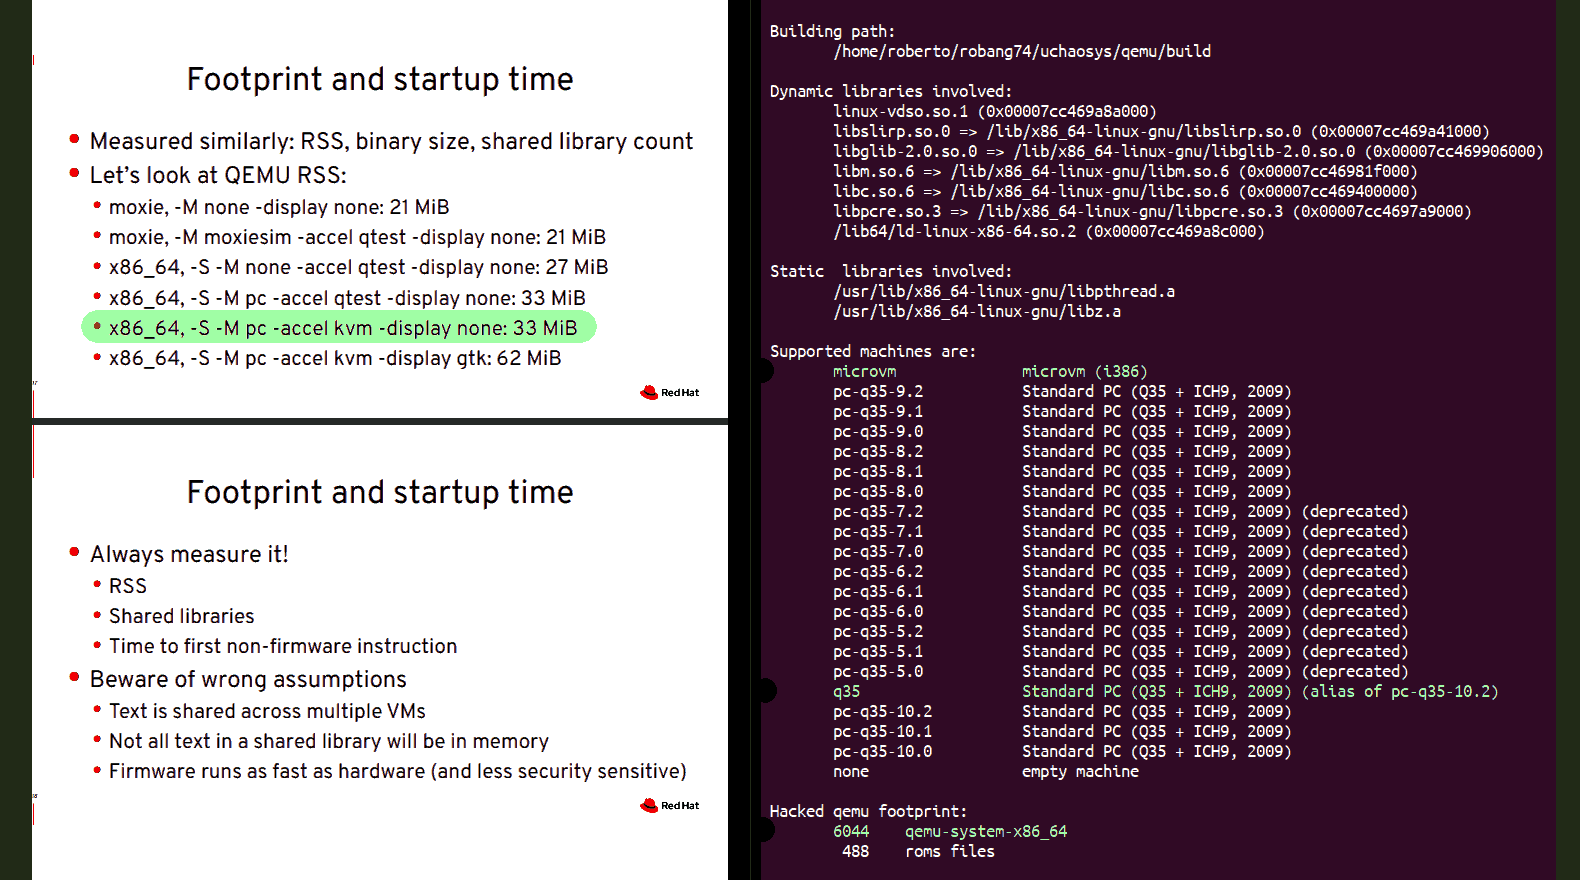
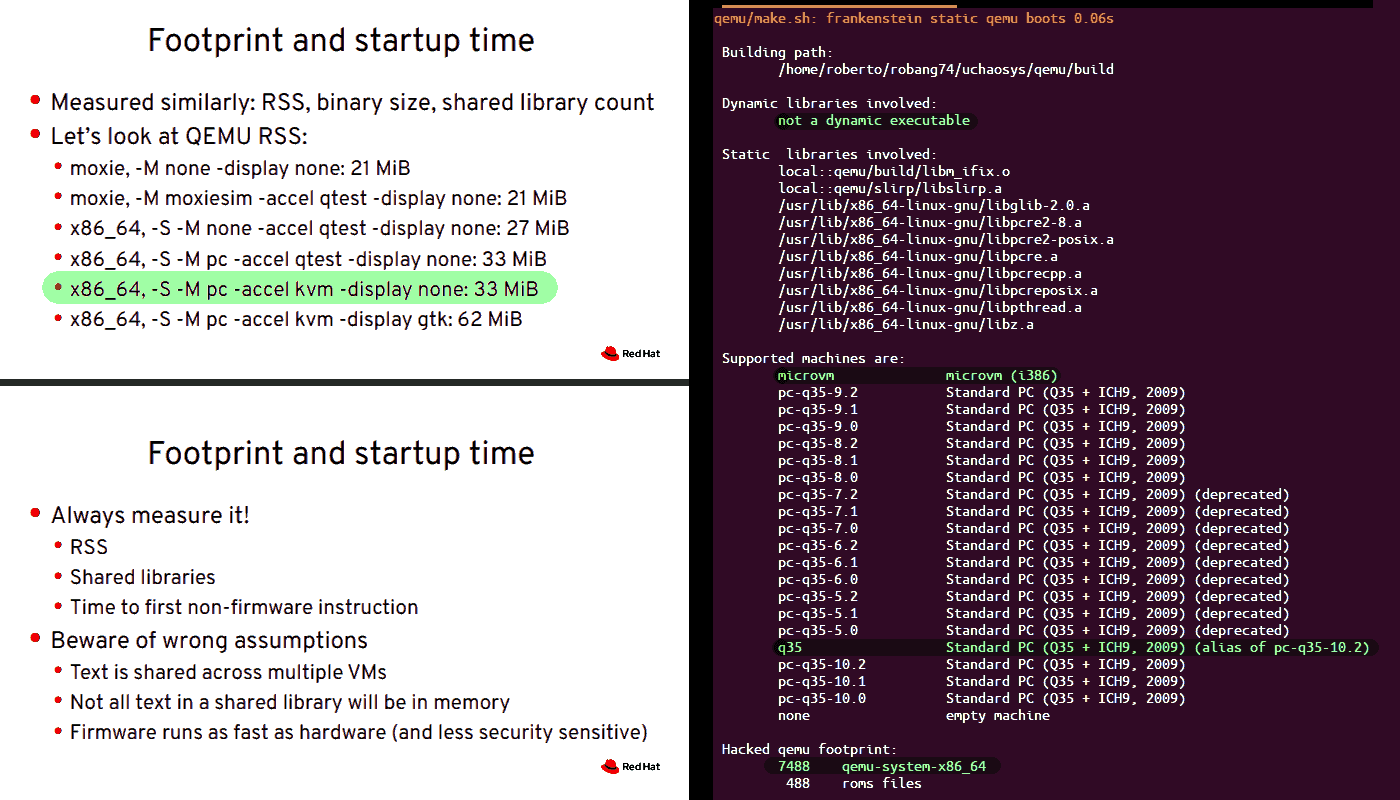
docs/red-hat-kvm-2019-qemu-footprint.png: updated

Changed region(s): [[0.0, 0.0, 1.0, 1.0], [0.0921, 0.5312, 0.3993, 0.5938]]

diff --git a/qemu/README.md b/qemu/README.md
@@ -4,9 +4,9 @@ In 2019, RedHat presented the minimal footprint QEMU at **31MB for the Q35 machi
 
 - [KVM Forum 2019 (un)bloated QEMU](https://static.sched.com/hosted_files/kvmforum2019/c6/kvmforum19-bloat.pdf) &nbsp;(PDF slides, by RedHat)
 
-I did a "trick of mine", possibly two, and the minimal footprint to have a x86-64 with both kvm (q35) and tcg (microvm) is **a bit less than 6MB**. Do not trust me and try to replicate.
+I did a "trick of mine", possibly two, and the minimal footprint to have a x86-64 with both kvm (q35) and tcg (microvm) is **a bit less than 6MB**. Do not trust me and try to replicate. By the way, the screeshot below refers to the v0.6.5.
 
-![image](../docs/red-hat-kvm-2019-qemu-footprint.png)
+![v0.6.5](../docs/red-hat-kvm-2019-qemu-footprint.png)
 
 ---
 

diff --git a/README.md b/README.md
@@ -36,7 +36,7 @@ Reference processor **i5-8365**, toolchain metrics:
 
 - `system building total time: 1010 s  (16m 50s)`&hairsp;¹
 - `dev/build environment size: 6116 MB (5.97 GB)`
-- `repository .zip copy  size:  328 KB (pdf+img)`
+- `repository .zip copy  size:  324 KB (pdf+img)`
 
 Reference architecture **x86_64**, system footprint:
 
